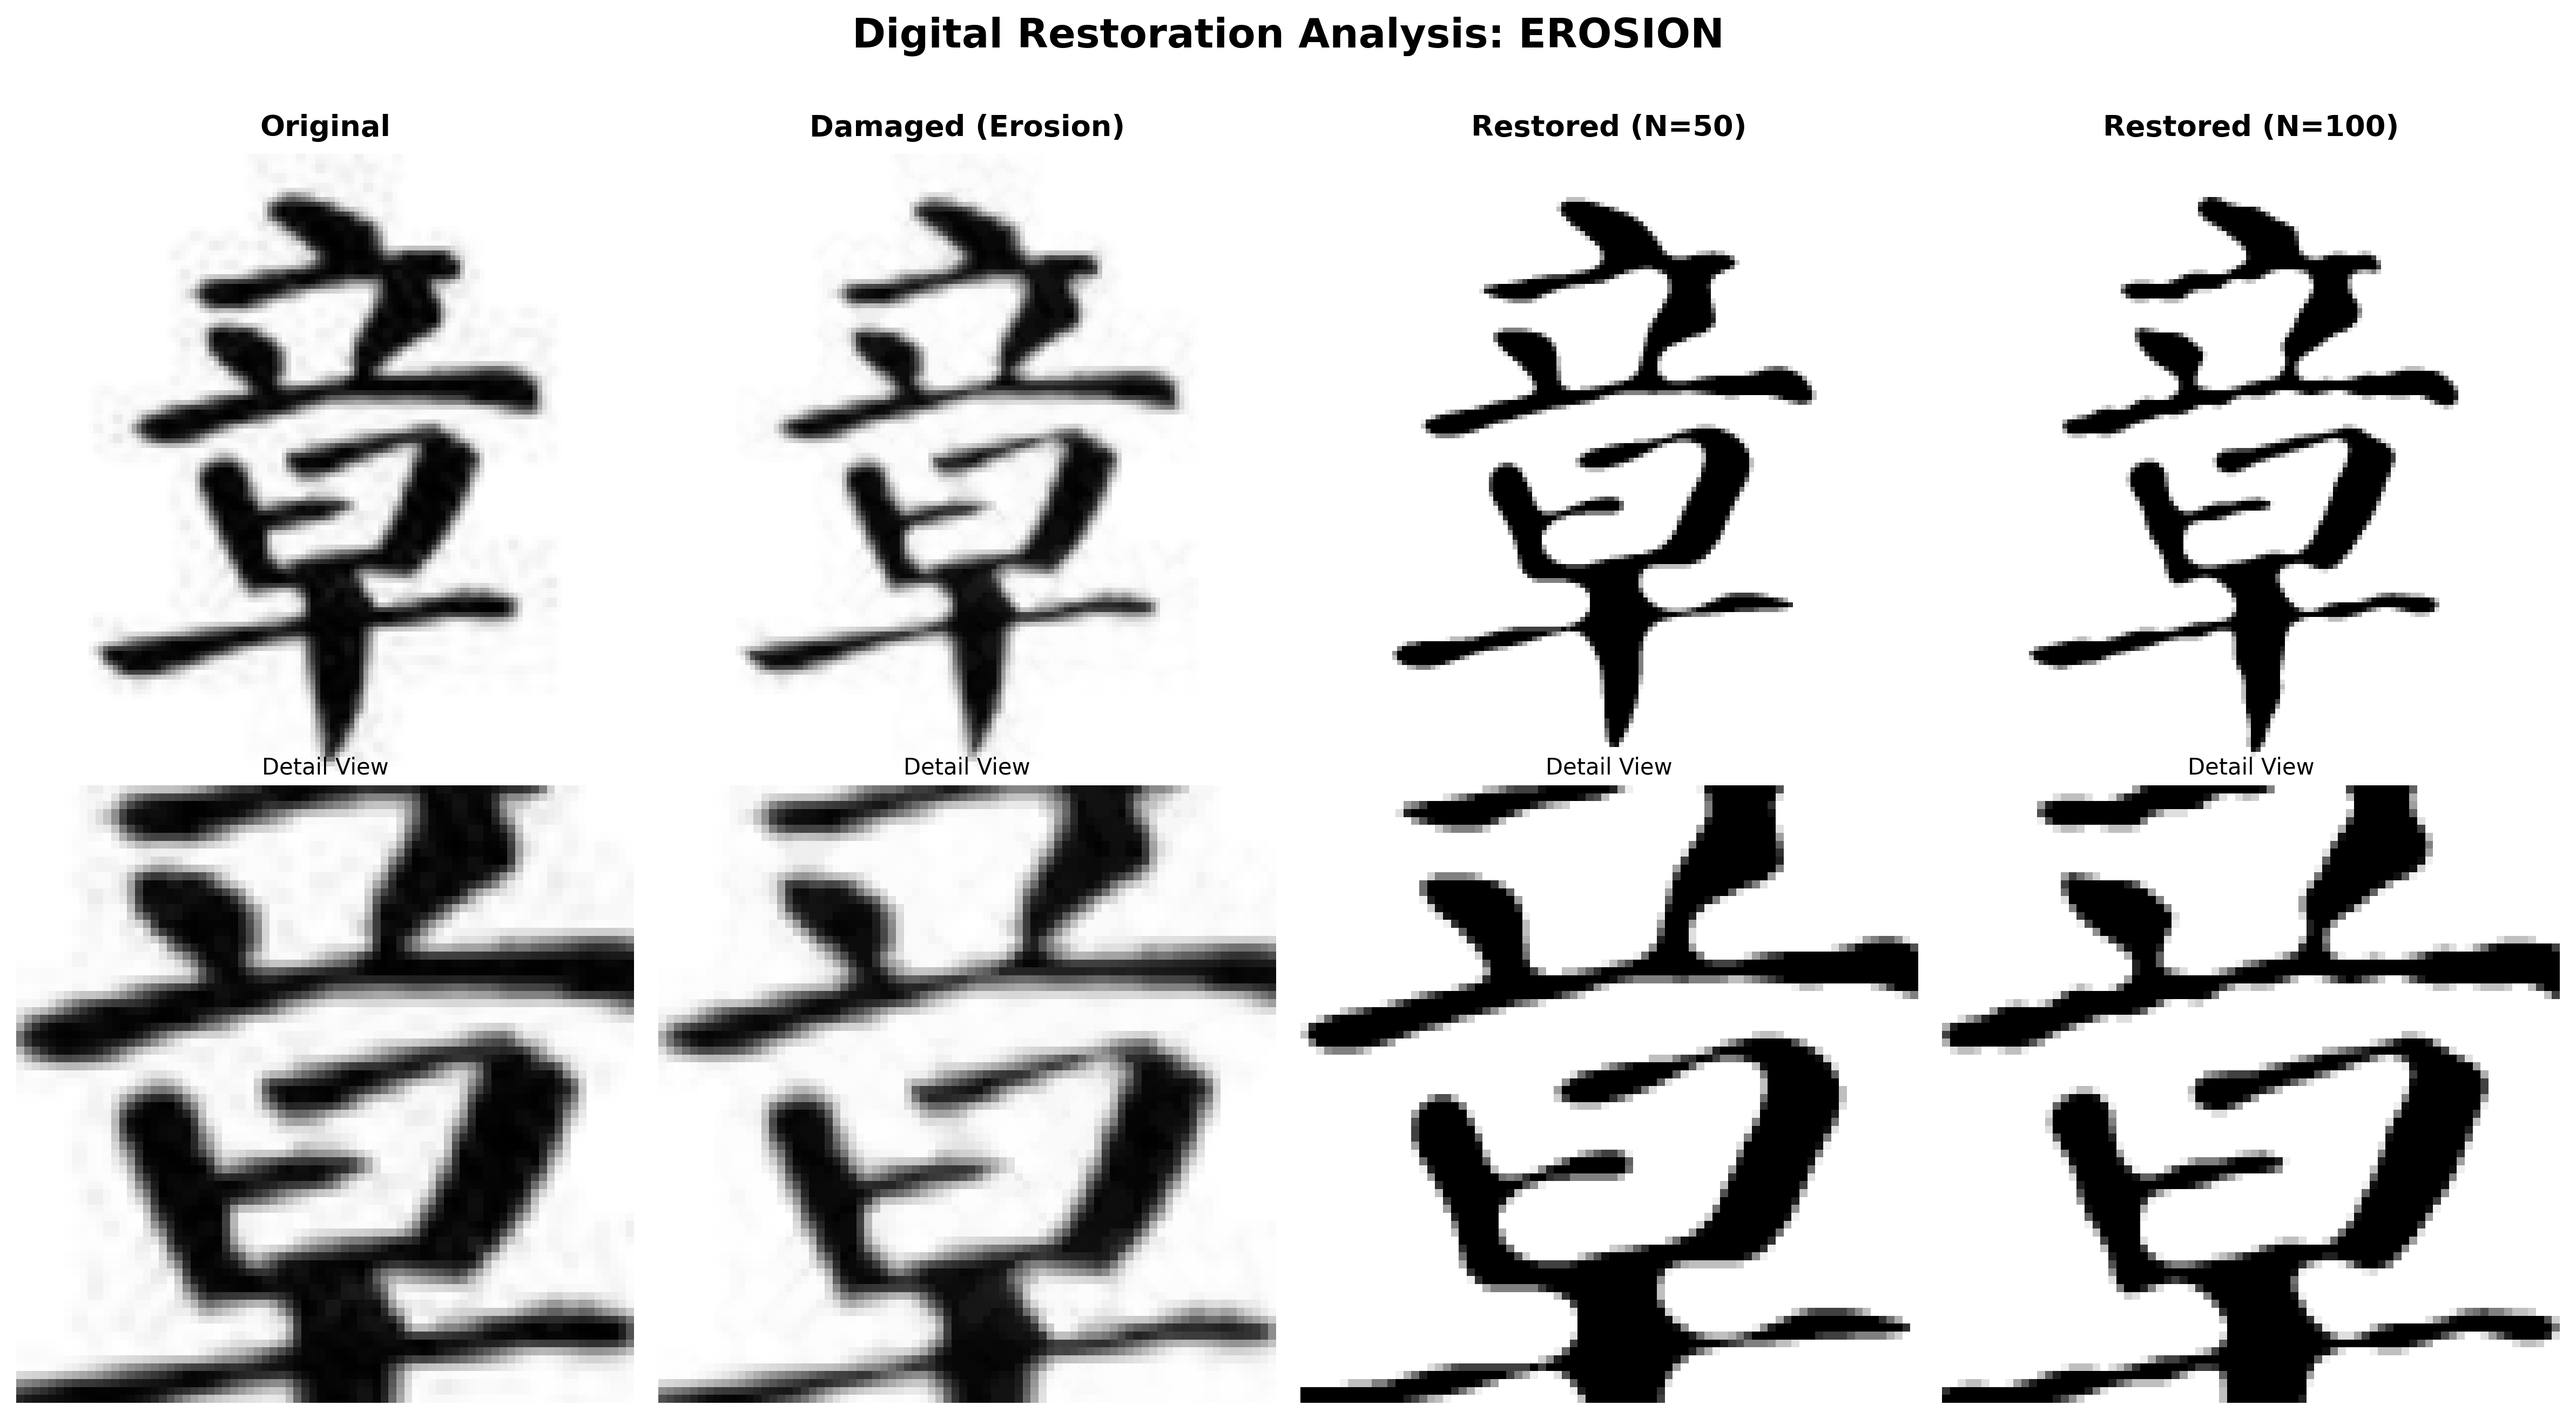
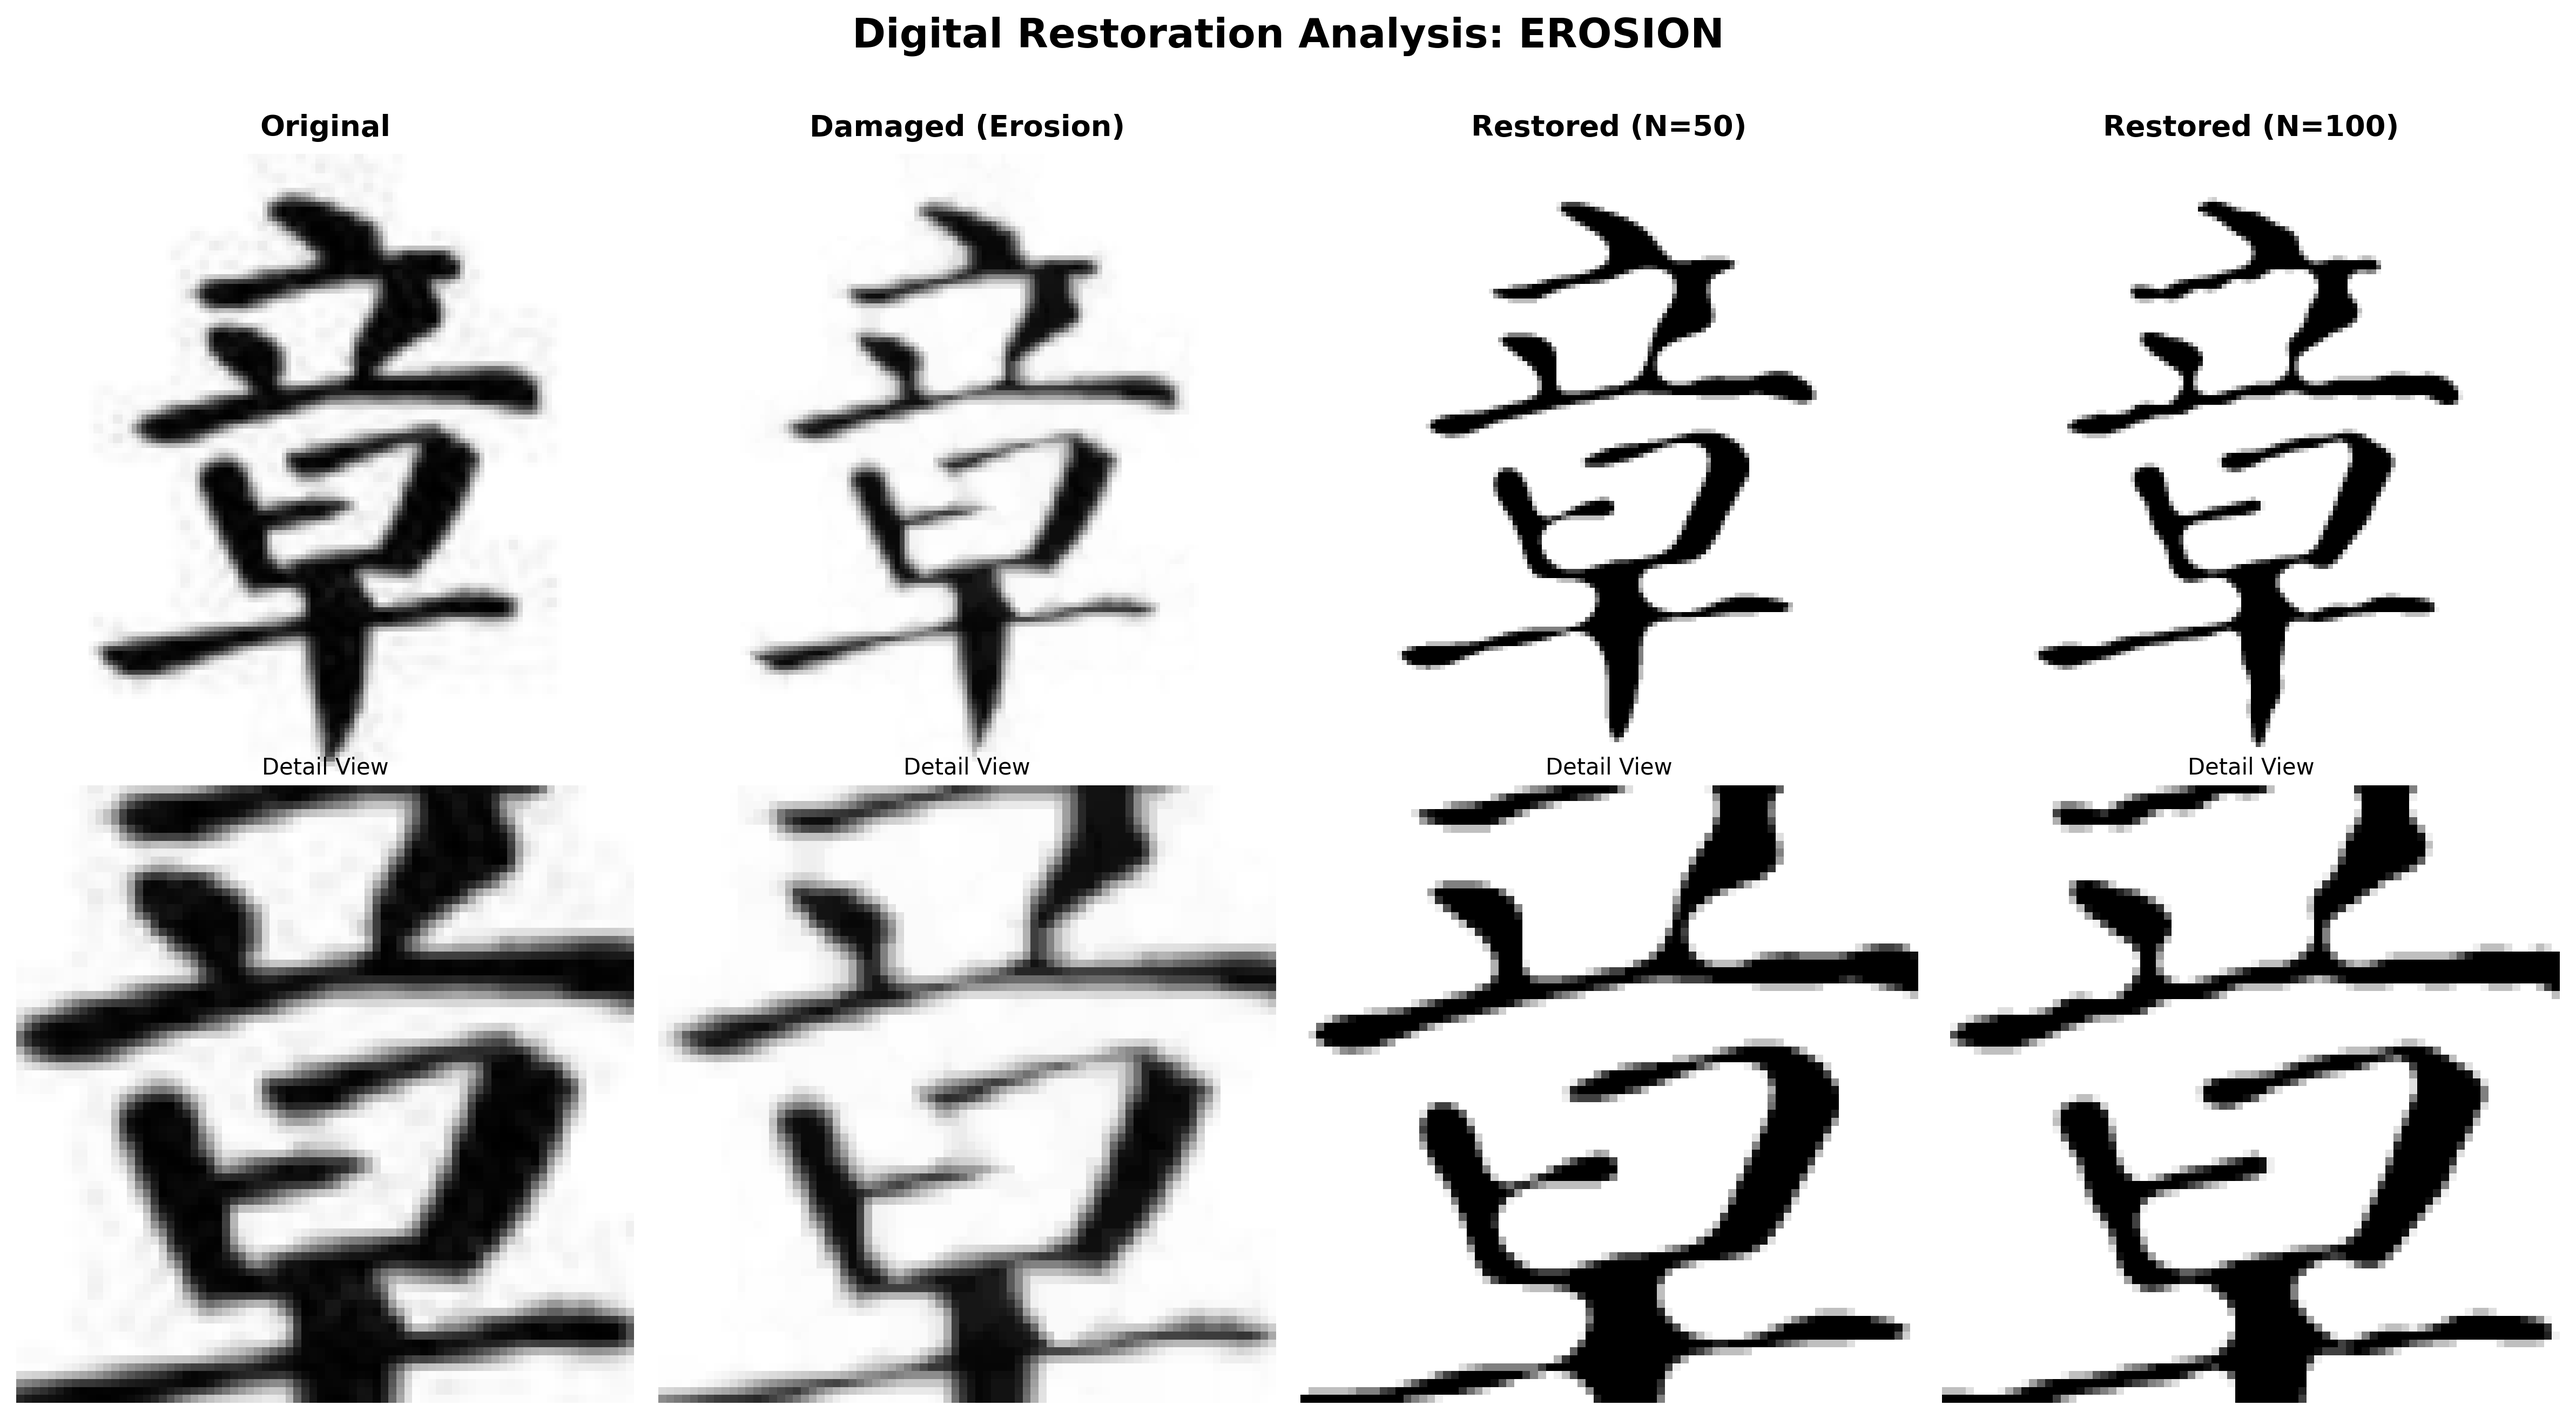
改善三種破壞效果的可視性與合理性
- Erosion: 加大 kernel (2→3/3→4/4→5) 使筆畫侵蝕更明顯
- Noise: 提高噪點密度，暗點改用中灰色(100~170)避免與黑色筆畫混淆
- Occlusion: 改為半透明混合(alpha 0.5~0.7)淺灰色方塊，底下筆畫隱約可見

diff --git a/modules/restoration_demo.py b/modules/restoration_demo.py
@@ -30,61 +30,62 @@ def add_damage(image, damage_type="noise", intensity=0.3, severity="medium"):
     
     # 定义三级强度映射
     severity_params = {
-        'light': {'noise_ratio': 0.05, 'erosion_kernel': 2, 'occlusion_count': 2},
-        'medium': {'noise_ratio': 0.10, 'erosion_kernel': 3, 'occlusion_count': 3},
-        'heavy': {'noise_ratio': 0.20, 'erosion_kernel': 4, 'occlusion_count': 5}
+        'light': {'noise_ratio': 0.08, 'erosion_kernel': 3, 'occlusion_count': 2},
+        'medium': {'noise_ratio': 0.15, 'erosion_kernel': 4, 'occlusion_count': 3},
+        'heavy': {'noise_ratio': 0.25, 'erosion_kernel': 5, 'occlusion_count': 5}
     }
     params = severity_params.get(severity, severity_params['medium'])
-    
+
     if damage_type == "noise":
-        # 🎯 椒盐噪声：密密麻麻的黑白像素点
-        noise_ratio = params['noise_ratio'] * intensity
+        # 🎯 椒盐噪声：用灰色調而非純黑，避免與筆畫混淆
+        noise_ratio = params['noise_ratio']
         salt_pepper_mask = np.random.rand(h, w) < noise_ratio
-        salt_mask = np.random.rand(h, w) > 0.5  # 50% 白点, 50% 黑点
-        
-        damaged[salt_pepper_mask & salt_mask] = 255  # 盐噪声 (白点)
-        damaged[salt_pepper_mask & ~salt_mask] = 0   # 椒噪声 (黑点)
-        
-        # 混合轻微高斯噪声增加真实感
-        gaussian_noise = np.random.normal(0, intensity * 15, image.shape).astype(np.int16)
+        salt_mask = np.random.rand(h, w) > 0.5
+
+        # 白點保持 255，「暗點」用中灰色 (120~180) 而非純黑
+        damaged[salt_pepper_mask & salt_mask] = 255
+        damaged[salt_pepper_mask & ~salt_mask] = np.random.randint(100, 170)
+
+        # 高斯噪声加大
+        gaussian_noise = np.random.normal(0, intensity * 30, image.shape).astype(np.int16)
         damaged = np.clip(damaged.astype(np.int16) + gaussian_noise, 0, 255).astype(np.uint8)
-        
+
     elif damage_type == "erosion":
-        # 🎯 形态学侵蚀：笔画变细，转折处轻微断裂
+        # 🎯 形态学侵蚀：加大 kernel 使效果明顯可見
         kernel_size = params['erosion_kernel']
-        # 使用椭圆形kernel使效果更自然
         kernel = cv2.getStructuringElement(cv2.MORPH_ELLIPSE, (kernel_size, kernel_size))
-        # 对于黑色笔画(0)在白色背景(255)上，使用dilate使黑色区域变细
+        # 對黑色筆畫(0)在白色背景(255)上，dilate 使黑色區域縮小
         damaged = cv2.dilate(damaged, kernel, iterations=1)
-        
+
     elif damage_type == "occlusion":
-        # 🎯 多区域遮挡：模拟墨水污渍、印章、纸张破损
+        # 🎯 半透明遮擋：用淺色方塊混合原圖，不用黑色
         num_occlusions = params['occlusion_count']
-        
+
         for _ in range(num_occlusions):
-            # 隨機大小：10×10 到 25×25 像素（更明顯的遮擋）
-            box_w = np.random.randint(int(w * 0.15), int(w * 0.40))
-            box_h = np.random.randint(int(h * 0.15), int(h * 0.40))
-            
-            # 随机位置
+            box_w = np.random.randint(int(w * 0.15), int(w * 0.35))
+            box_h = np.random.randint(int(h * 0.15), int(h * 0.35))
+
             if h > box_h and w > box_w:
                 y = np.random.randint(0, h - box_h)
                 x = np.random.randint(0, w - box_w)
-                
-                # 随机遮挡类型：浅灰污渍 (70%) 或深色墨水 (30%)
-                if np.random.rand() > 0.3:
-                    occlusion_value = np.random.randint(180, 230)  # 浅灰污渍
-                else:
-                    occlusion_value = np.random.randint(0, 50)     # 深色墨水
-                
-                # 创建遮挡区域
-                damaged[y:y+box_h, x:x+box_w] = occlusion_value
-                
-                # 添加边缘渐变使遮挡更自然
-                roi = damaged[max(0,y-1):min(h,y+box_h+1), max(0,x-1):min(w,x+box_w+1)]
-                if roi.size > 0:
-                    blurred = cv2.GaussianBlur(roi, (3, 3), 0)
-                    damaged[max(0,y-1):min(h,y+box_h+1), max(0,x-1):min(w,x+box_w+1)] = blurred
+
+                # 遮擋顏色：淺灰到中灰 (150~220)，絕不用黑色
+                occlusion_value = np.random.randint(150, 220)
+
+                # 半透明混合 (alpha=0.5~0.7)，讓底下筆畫隱約可見
+                alpha = np.random.uniform(0.5, 0.7)
+                roi = damaged[y:y+box_h, x:x+box_w].astype(np.float32)
+                blended = roi * (1 - alpha) + occlusion_value * alpha
+                damaged[y:y+box_h, x:x+box_w] = blended.astype(np.uint8)
+
+                # 邊緣高斯模糊使過渡更自然
+                pad = 2
+                y0, y1 = max(0, y - pad), min(h, y + box_h + pad)
+                x0, x1 = max(0, x - pad), min(w, x + box_w + pad)
+                roi_blur = damaged[y0:y1, x0:x1]
+                if roi_blur.size > 0:
+                    blurred = cv2.GaussianBlur(roi_blur, (5, 5), 0)
+                    damaged[y0:y1, x0:x1] = blurred
     
     return damaged
 
